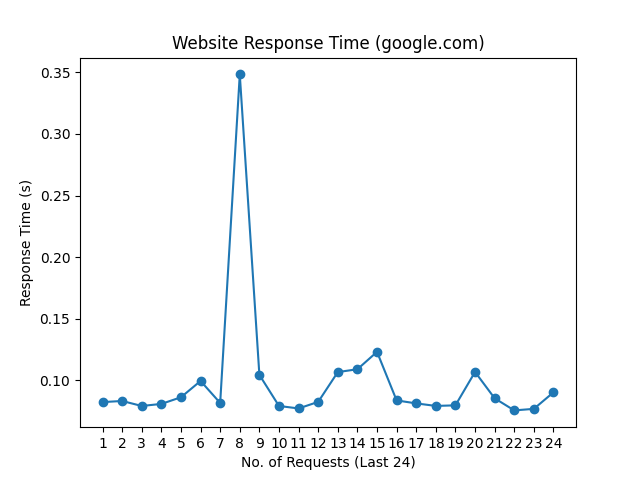
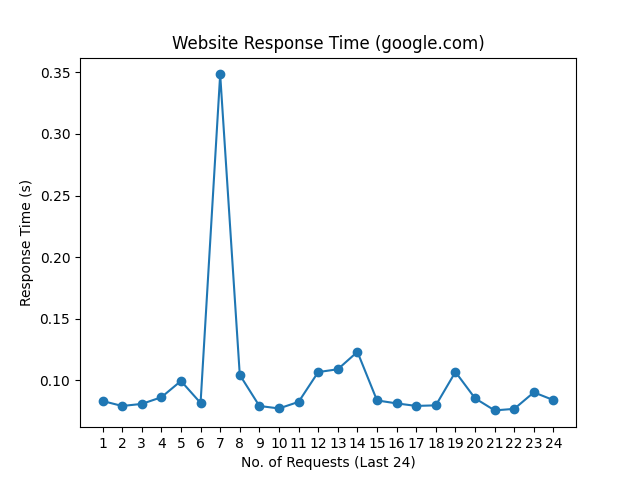
update README.md, history and graph

Changed region(s): [[0.1562, 0.125, 0.875, 0.875]]

diff --git a/README.md b/README.md
@@ -1,10 +1,10 @@
 # Web Monitoring
 
-Last Checked: 23/12/2024 08:21
+Last Checked: 24/12/2024 08:20
 
 | Website | Response Time (s) | Status | Avg Uptime (%) |
 |---------|-------------------|--------|----------------|
 | www.thiswebsiteisdown.net | 0 <br> <img src="graph/thiswebsiteisdown.net.png" alt="Graph" width="200" height="200">  | ❌ Down | 0.00 |
-| www.netflix.com | 0.839664 <br> <img src="graph/netflix.com.png" alt="Graph" width="200" height="200">  | ✅ Up | 99.80 |
-| www.google.com | 0.090363 <br> <img src="graph/google.com.png" alt="Graph" width="200" height="200">  | ✅ Up | 100.00 |
-| www.facebook.com | 0.199671 <br> <img src="graph/facebook.com.png" alt="Graph" width="200" height="200">  | ✅ Up | 100.00 |
+| www.netflix.com | 1.394732 <br> <img src="graph/netflix.com.png" alt="Graph" width="200" height="200">  | ✅ Up | 99.80 |
+| www.google.com | 0.084075 <br> <img src="graph/google.com.png" alt="Graph" width="200" height="200">  | ✅ Up | 100.00 |
+| www.facebook.com | 0.550984 <br> <img src="graph/facebook.com.png" alt="Graph" width="200" height="200">  | ✅ Up | 100.00 |
